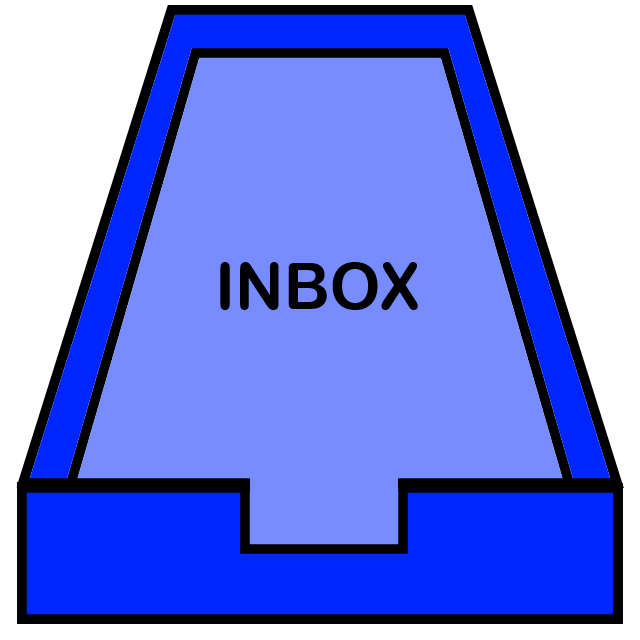
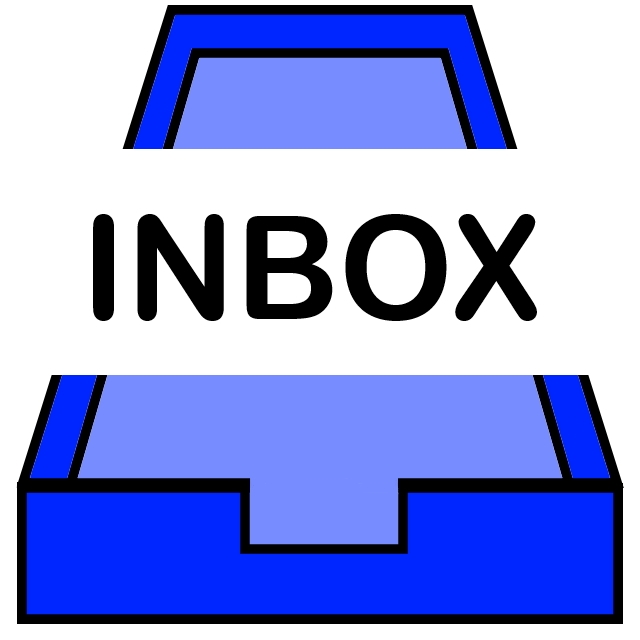
New images for mailbox buttons

Changed region(s): [[0.0625, 0.2188, 0.9375, 0.5938]]

diff --git a/Client/Core/PostOffice.cs b/Client/Core/PostOffice.cs
@@ -143,19 +143,19 @@ namespace Eudora.Net.Core
             // Default mailboxes
             if (!File.Exists(MailboxFullPathFromName("Inbox")))
             {
-                Mailboxes.Add(new("Inbox", "pack://application:,,,/GUI/res/images/tb32/tb32_21.png", 0));
+                Mailboxes.Add(new("Inbox", "pack://application:,,,/GUI/res/images/new/newinbox.png", 0));
             }
             if (!File.Exists(MailboxFullPathFromName("Drafts")))
             {
-                Mailboxes.Add(new("Drafts", "pack://application:,,,/GUI/res/images/tb32/tb32_32.png", 1));
+                Mailboxes.Add(new("Drafts", "pack://application:,,,/GUI/res/images/new/newdrafts.png", 1));
             }
             if (!File.Exists(MailboxFullPathFromName("Sent")))
             {
-                Mailboxes.Add(new("Sent", "pack://application:,,,/GUI/res/images/tb32/tb32_32.png", 2));
+                Mailboxes.Add(new("Sent", "pack://application:,,,/GUI/res/images/new/newsent.png", 2));
             }
             if (!File.Exists(MailboxFullPathFromName("Trash")))
             {
-                Mailboxes.Add(new("Trash", "pack://application:,,,/GUI/res/images/tb16/tb16_49.png", 3));
+                Mailboxes.Add(new("Trash", "pack://application:,,,/GUI/res/images/new/newtrashbox.png", 3));
             }
 
             LoadMailboxes();
